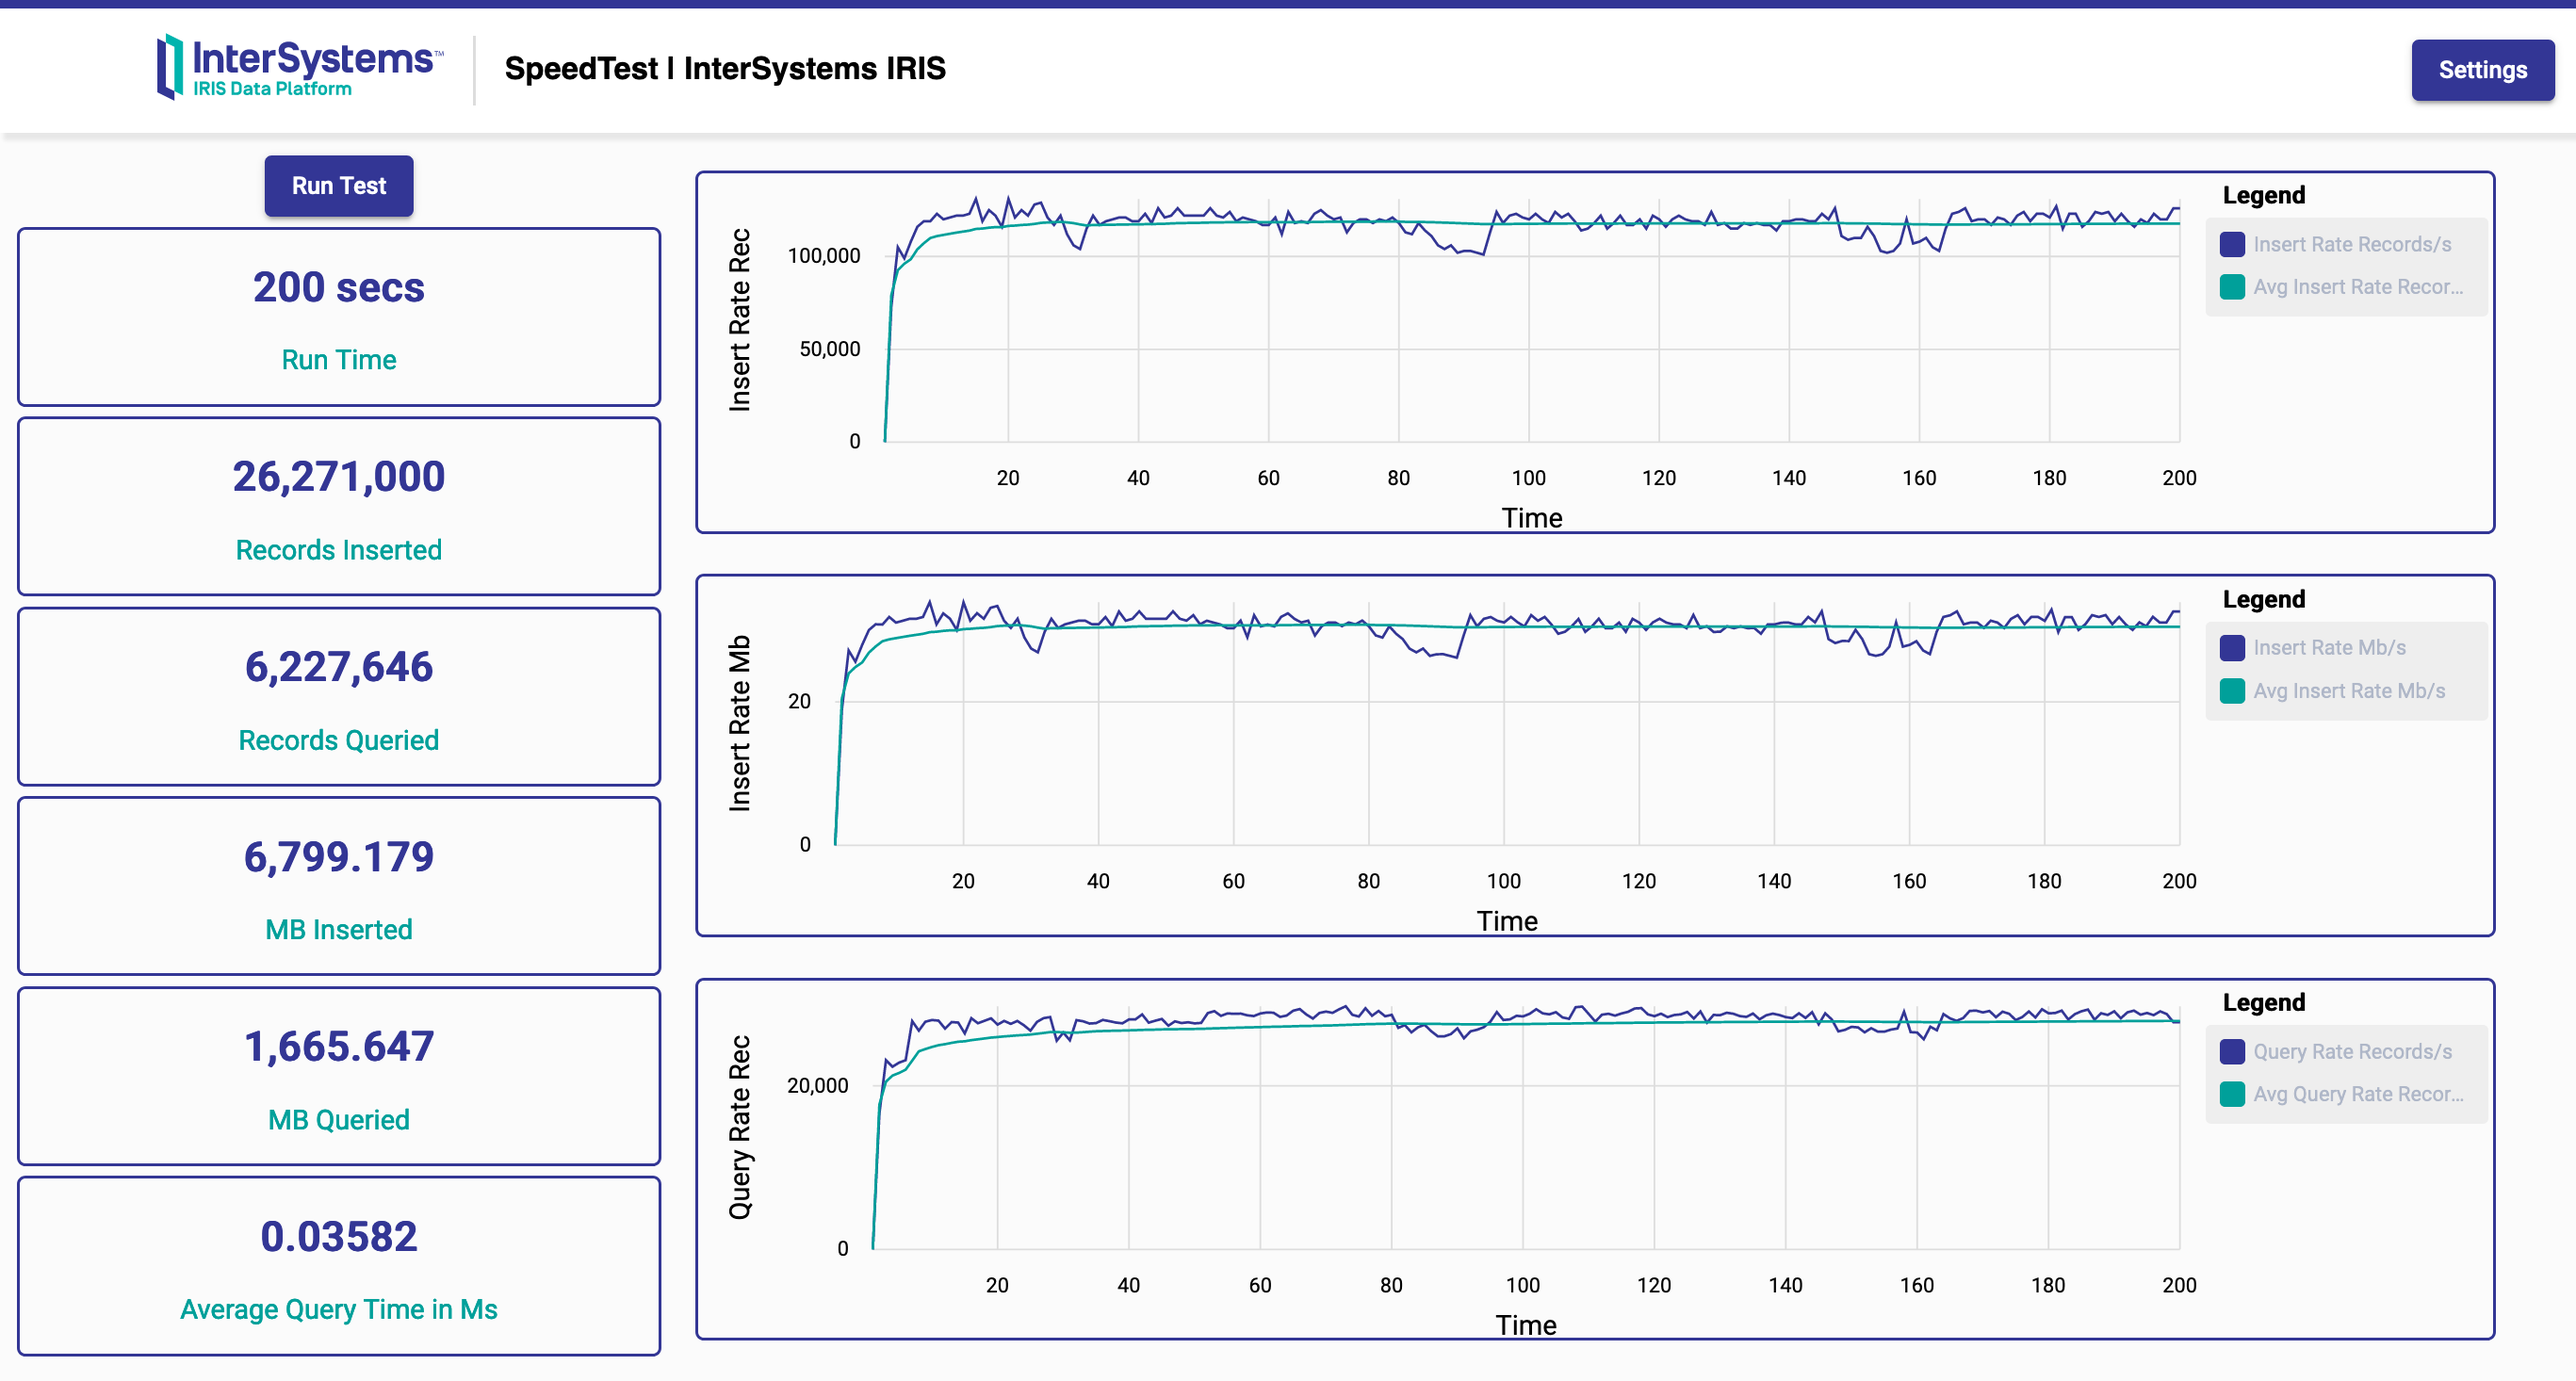
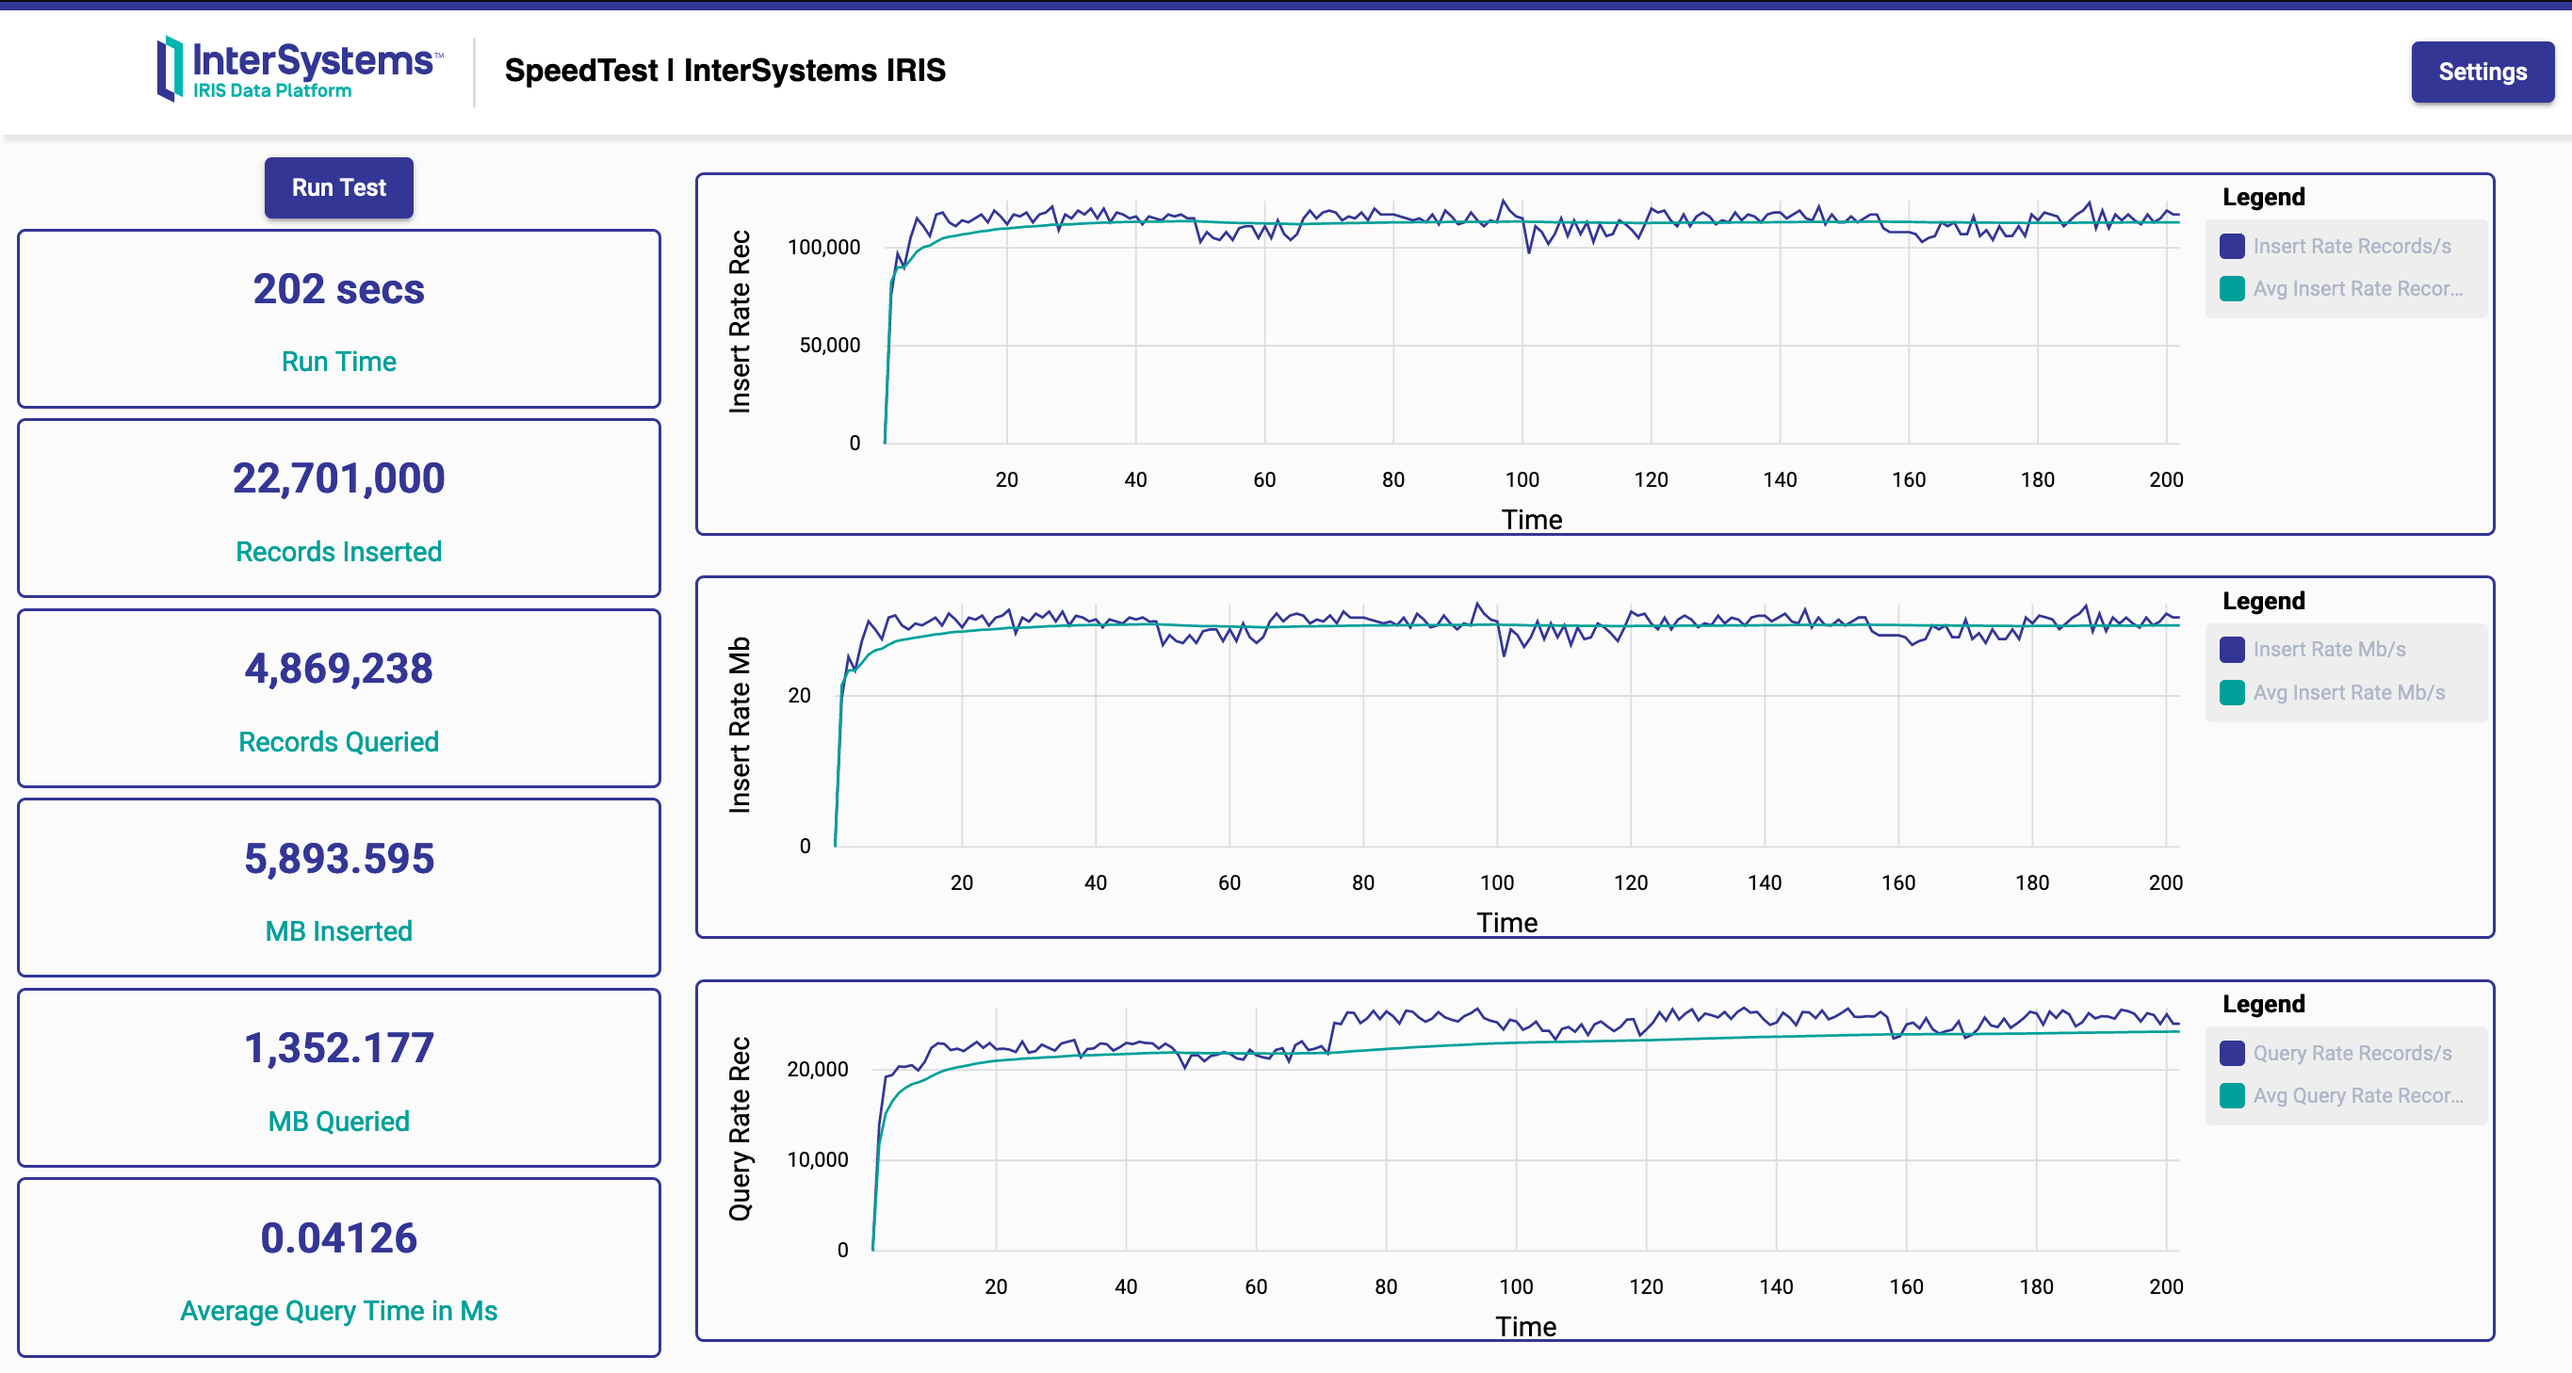
Fixing bug on ICM that prevented us from mounting the DATA volume and Aurora documentation.

diff --git a/ICM/DOC/IRIS_x_AWSAuroraMySql.md b/ICM/DOC/IRIS_x_AWSAuroraMySql.md
@@ -250,7 +250,7 @@ Open both Speed Tests on your browser and hit the button **Run Test**. Here are 
 
 | Database               | Machine      | Run time | Inserts/s ATEOT     | Tot Records Inserted | Avg Queries/s ATEOT | Tot Records Retrieved AEOT | Avg Query Response Time AEOT | CPU %  |
 |------------------------|--------------|----------|---------------------|----------------------|---------------------|----------------------------|------------------------------|--------|
-| InterSystems IRIS 2020 | m5.xlarge    | 200s     | 117K/s              | 26,271,000           | 28K/s               | 6,227,646                  | 0.03582ms                    | 50%    |
+| InterSystems IRIS 2020 | m5.xlarge    | 200s     | 117K/s              | 22,701,000           | 28K/s               | 4,869,238                  | 0.04126ms                    | 50%    |
 | AWS Aurora             | db.r5.xlarge | 200s     | 7K/s                | 2,427,000            | 4.4K/s              | 1,432,194                  | 0.24155ms                    | 75%    |
 
 m5.xlarge has the same characteristics of db.r5.xlarge with the exception that m5.xlarge has only 16Gb of RAM while db.r5.xlarge has 32Gb of RAM. That means AWS Aurora has an advantage over InterSystems IRIS but it seems that this didn't help them much.
@@ -258,8 +258,8 @@ m5.xlarge has the same characteristics of db.r5.xlarge with the exception that m
 **ATEOT = At the end of Test. Or "sustained" rate.**
 
 **The conclusion is that:**
-* InterSystems IRIS is 10.8x faster than AWS Aurora at ingestion
-* Intersystems IRIS is 6.7x faster at querying
+* InterSystems IRIS is 9x faster than AWS Aurora at ingestion
+* Intersystems IRIS is 5.8x faster than AWS Aurora at querying
 
 ## 9 - Unprovision everything
 

diff --git a/README.md b/README.md
@@ -11,8 +11,8 @@ You can run the tests on AWS! Here are some results:
   * InterSystems IRIS is 1.392x faster than SAP HANA at ingestion
   * Intersystems IRIS is 24.93x faster than SAP HANA at querying
 * [InterSystems IRIS x AWS Aurora (MySQL)](https://github.com/intersystems-community/irisdemo-demo-htap/blob/master/ICM/DOC/IRIS_x_AWSAuroraMySql.md):
-  * InterSystems IRIS is 10.8x faster than AWS Aurora at ingestion
-  * Intersystems IRIS is 6.7x faster than AWS Aurora at querying
+  * InterSystems IRIS is 9x faster than AWS Aurora at ingestion
+  * Intersystems IRIS is 5.8x faster than AWS Aurora at querying
 
 You can run the tests on your own PC using Dockers (3 CPUs and 7GB of RAM)! Here are some results:
 * InterSystems IRIS x MySQL 8.0:
